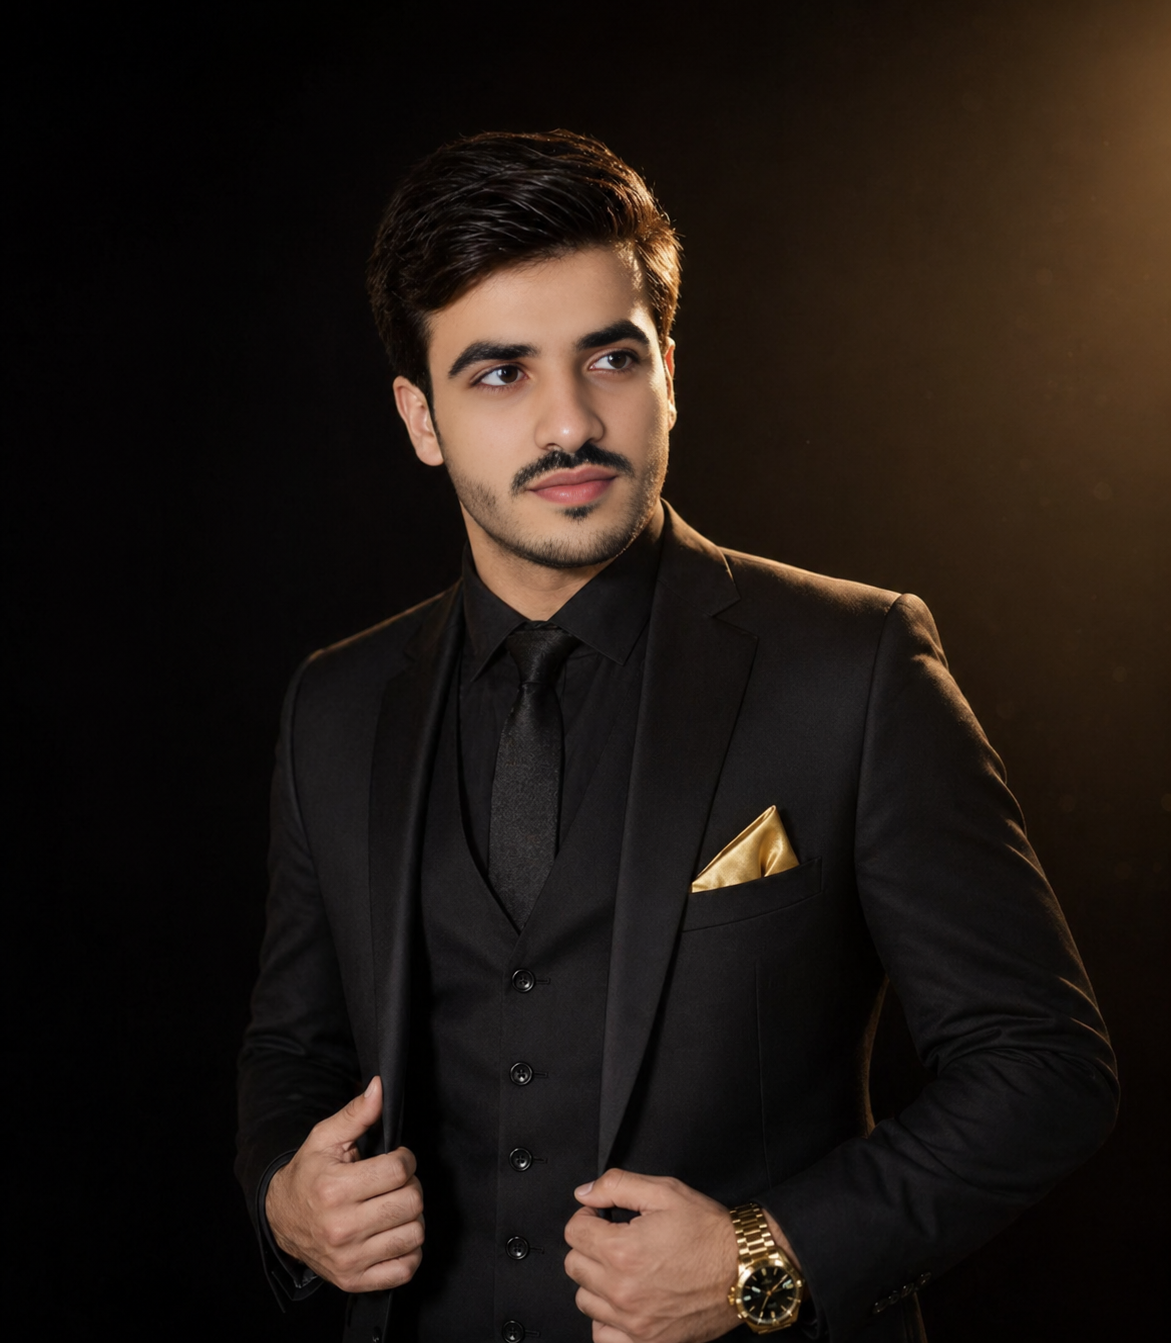
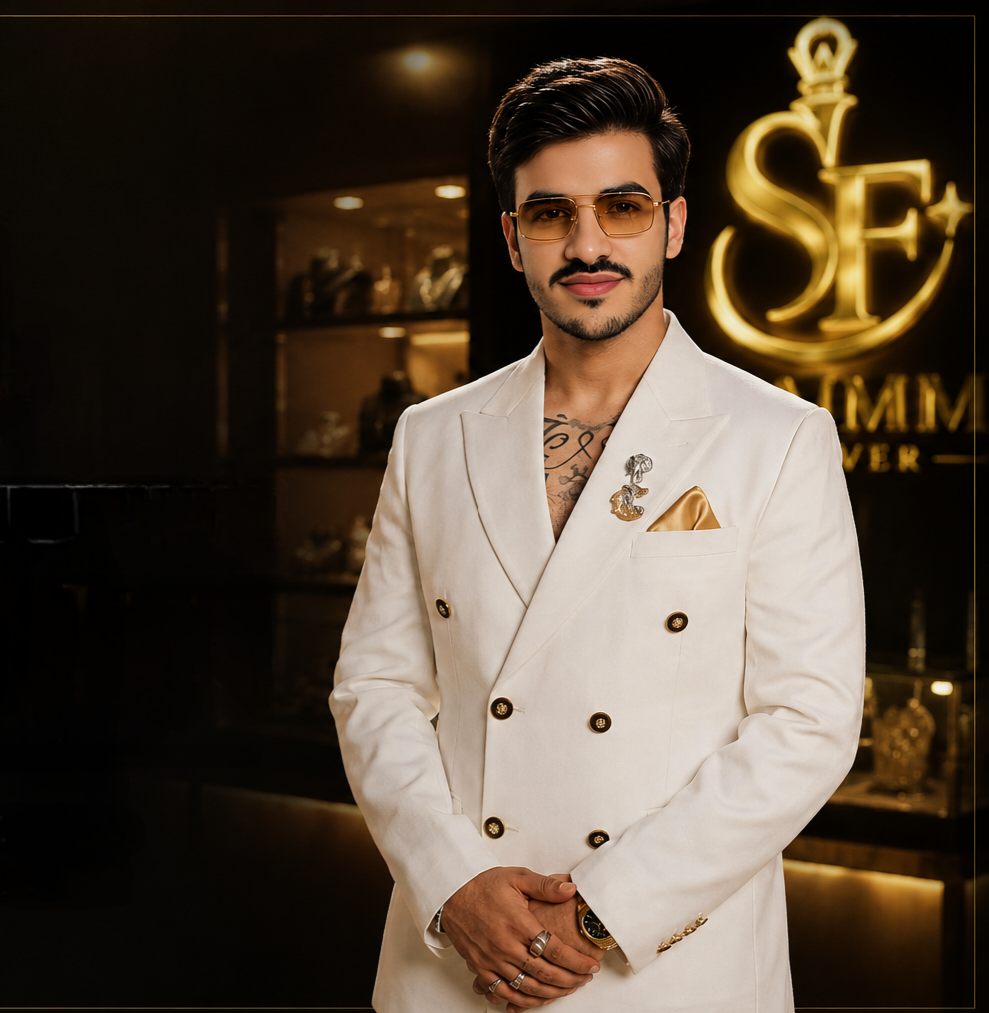
seo: complete SEO overhaul — Organization/Person JSON-LD + meta + sitemap 2026
- Full meta tags: title, description, keywords, author, robots, canonical
- Open Graph: og:type website, og:image, og:description
- Twitter Card: summary_large_image with @faisalorakzaii
- JSON-LD @graph: Organization (Orakzai Bond), WebSite, FinancialProduct (OKBOND), Person (Faisal Orakzai)
- Person schema: Wikidata Q140264666, ORCID 0009-0000-0915-7272, 15 sameAs links
- Founding date fixed to 2026
- Sitemap updated: 10 pages with 2026-06-22 lastmod
- New high-quality founder photo (1.2MB)
- Cache bump to okb-v7

diff --git a/orakzaibond/index.html b/orakzaibond/index.html
@@ -1,125 +1,189 @@
 <!DOCTYPE html>
-<html lang="en">
-  <head>
-    <meta charset="UTF-8" />
-    <meta name="viewport" content="width=device-width, initial-scale=1.0, maximum-scale=1" />
-    <title>Orakzai Bond — OKBOND | Real-Asset Backed Token on Polygon</title>
+  <html lang="en">
+    <head>
+      <meta charset="UTF-8" />
+      <meta name="viewport" content="width=device-width, initial-scale=1.0, maximum-scale=5" />
 
-    <!--
-      CACHE KILL-SWITCH (okb-v6) — runs synchronously before any JS framework.
-      Uses localStorage (NOT Cache Storage / Service Worker) so it works in
-      every browser including Android WebView, Trust Wallet in-app browser,
-      Samsung Internet, and any browser where SW is blocked or stale.
+      <!-- Primary SEO -->
+      <title>Orakzai Bond — OKBOND | World's First Capital-Protected Decentralized Bond</title>
+      <meta name="description" content="Orakzai Bond (OKBOND) — the world's first capital-protected decentralized bond on Polygon. Founded by Faisal Orakzai in 2026. Real-asset backed DeFi token with quantitative fintech infrastructure. Join the sovereign financial revolution." />
+      <meta name="keywords" content="Orakzai Bond, OKBOND, decentralized bond, DeFi Pakistan, blockchain bond, capital protected crypto, Faisal Orakzai, Polygon DeFi, real asset backed token, orakzaibond.com, Pakistani DeFi, OKBOND token, crypto bond Pakistan, quantitative fintech" />
+      <meta name="author" content="Faisal Orakzai" />
+      <meta name="creator" content="Faisal Orakzai" />
+      <meta name="publisher" content="Orakzai Bond" />
+      <meta name="robots" content="index, follow, max-image-preview:large, max-snippet:-1, max-video-preview:-1" />
+      <meta name="googlebot" content="index, follow, max-image-preview:large, max-snippet:-1" />
+      <link rel="canonical" href="https://orakzaibond.com/" />
 
-      On the FIRST load after this deploy the version key won't match:
-        1. Unregister all service workers.
-        2. Delete every Cache Storage entry.
-        3. Hard-reload once (bypasses all browser caches).
-      Second load: key matches → no-op, app starts normally.
+      <!-- Open Graph -->
+      <meta property="og:type" content="website" />
+      <meta property="og:url" content="https://orakzaibond.com/" />
+      <meta property="og:site_name" content="Orakzai Bond" />
+      <meta property="og:title" content="Orakzai Bond — OKBOND | World's First Capital-Protected Decentralized Bond" />
+      <meta property="og:description" content="Orakzai Bond (OKBOND) — real-asset backed DeFi on Polygon. Capital-protected, blockchain-verified, founder-guaranteed. Founded by Faisal Orakzai, 2026." />
+      <meta property="og:image" content="https://orakzaibond.com/opengraph.jpg" />
+      <meta property="og:image:width" content="1200" />
+      <meta property="og:image:height" content="630" />
+      <meta property="og:image:alt" content="Orakzai Bond — OKBOND DeFi Platform" />
+      <meta property="og:locale" content="en_US" />
 
-      To force another full flush in a future deploy, bump 'okb-v6' to 'okb-v7'.
-    -->
-    <script>
-      (function () {
-        var V = "okb-v6";
-        try {
-          if (localStorage.getItem("_okbuild") !== V) {
-            localStorage.setItem("_okbuild", V);
-            var pending = 0, done = false;
-            function go() { if (done) return; done = true; location.reload(true); }
-            if ("serviceWorker" in navigator) {
-              pending++;
-              navigator.serviceWorker.getRegistrations()
-                .then(function (r) { r.forEach(function (s) { try { s.unregister(); } catch (e) {} }); if (--pending === 0) go(); })
-                .catch(function () { if (--pending === 0) go(); });
+      <!-- Twitter Card -->
+      <meta name="twitter:card" content="summary_large_image" />
+      <meta name="twitter:site" content="@faisalorakzaii" />
+      <meta name="twitter:creator" content="@faisalorakzaii" />
+      <meta name="twitter:title" content="Orakzai Bond — OKBOND | Capital-Protected DeFi" />
+      <meta name="twitter:description" content="World's first capital-protected decentralized bond on Polygon. Real-asset backed. Founded by Faisal Orakzai, 2026." />
+      <meta name="twitter:image" content="https://orakzaibond.com/opengraph.jpg" />
+
+      <!-- Additional Meta -->
+      <meta name="theme-color" content="#BF953F" />
+      <meta name="msapplication-TileColor" content="#05060A" />
+
+      <!-- JSON-LD Structured Data -->
+      <script type="application/ld+json">
+      {
+        "@context": "https://schema.org",
+        "@graph": [
+          {
+            "@type": "Organization",
+            "@id": "https://orakzaibond.com/#organization",
+            "name": "Orakzai Bond",
+            "alternateName": ["OKBOND", "Orakzai Bond DeFi"],
+            "description": "The world's first capital-protected decentralized bond on Polygon blockchain. Real-asset backed DeFi token with quantitative fintech infrastructure.",
+            "url": "https://orakzaibond.com",
+            "logo": {
+              "@type": "ImageObject",
+              "url": "https://orakzaibond.com/okbond-logo.png",
+              "caption": "Orakzai Bond — OKBOND"
+            },
+            "image": "https://orakzaibond.com/faisal-orakzai.jpg",
+            "foundingDate": "2026",
+            "founder": {
+              "@type": "Person",
+              "@id": "https://www.shamimforever.com/faisal-orakzai#person",
+              "name": "Faisal Orakzai",
+              "url": "https://www.shamimforever.com/faisal-orakzai",
+              "image": "https://orakzaibond.com/faisal-orakzai.jpg",
+              "jobTitle": "Founder & CEO",
+              "sameAs": [
+                "https://www.wikidata.org/wiki/Q140264666",
+                "https://orcid.org/0009-0000-0915-7272",
+                "https://www.linkedin.com/in/faisalorakzaii",
+                "https://x.com/faisalorakzaii"
+              ]
+            },
+            "sameAs": [
+              "https://orakzaibond.com",
+              "http://orakzaibond.com"
+            ],
+            "knowsAbout": [
+              "Decentralized Finance", "Blockchain Bonds", "Asset Tokenization",
+              "Quantitative Fintech", "Capital Protection", "Polygon Network",
+              "DeFi Protocol", "Real Asset Backed Tokens"
+            ],
+            "areaServed": { "@type": "Place", "name": "Worldwide" },
+            "contactPoint": {
+              "@type": "ContactPoint",
+              "contactType": "customer service",
+              "availableLanguage": ["English", "Urdu"],
+              "url": "https://orakzaibond.com"
             }
-            if ("caches" in window) {
-              pending++;
-              caches.keys()
-                .then(function (k) { return Promise.all(k.map(function (c) { return caches.delete(c); })); })
-                .then(function () { if (--pending === 0) go(); })
-                .catch(function () { if (--pending === 0) go(); });
-            }
-            if (pending === 0) go();
+          },
+          {
+            "@type": "WebSite",
+            "@id": "https://orakzaibond.com/#website",
+            "url": "https://orakzaibond.com",
+            "name": "Orakzai Bond",
+            "description": "World's first capital-protected decentralized bond on Polygon. Real-asset backed DeFi.",
+            "publisher": { "@id": "https://orakzaibond.com/#organization" },
+            "inLanguage": "en"
+          },
+          {
+            "@type": "FinancialProduct",
+            "@id": "https://orakzaibond.com/#okbond",
+            "name": "OKBOND Token",
+            "description": "Capital-protected decentralized bond token on Polygon blockchain. Real-asset backed with quantitative fintech infrastructure.",
+            "url": "https://orakzaibond.com",
+            "provider": { "@id": "https://orakzaibond.com/#organization" },
+            "feesAndCommissionsSpecification": "Capital-protected — principal guaranteed",
+            "category": "Decentralized Finance"
+          },
+          {
+            "@type": "Person",
+            "@id": "https://www.shamimforever.com/faisal-orakzai#person",
+            "name": "Faisal Orakzai",
+            "givenName": "Faisal",
+            "familyName": "Orakzai",
+            "alternateName": ["Chairman Faisal Orakzai", "Malak Faisal Orakzai", "faisalorakzaii"],
+            "description": "Founder & CEO of Orakzai Bond. Pakistani entrepreneur specializing in blockchain architecture and decentralized finance. Also founder of Shamim Forever and Orakzai Group.",
+            "url": "https://www.shamimforever.com/faisal-orakzai",
+            "image": "https://orakzaibond.com/faisal-orakzai.jpg",
+            "birthDate": "2006-04-30",
+            "birthPlace": { "@type": "Place", "name": "Pakistan", "addressCountry": "PK" },
+            "nationality": { "@type": "Country", "name": "Pakistan" },
+            "jobTitle": ["Founder & CEO", "Chairman", "Blockchain Architect"],
+            "worksFor": { "@id": "https://orakzaibond.com/#organization" },
+            "identifier": [
+              { "@type": "PropertyValue", "propertyID": "ORCID", "value": "0009-0000-0915-7272", "url": "https://orcid.org/0009-0000-0915-7272" },
+              { "@type": "PropertyValue", "propertyID": "Wikidata", "value": "Q140264666", "url": "https://www.wikidata.org/wiki/Q140264666" }
+            ],
+            "sameAs": [
+              "https://www.wikidata.org/wiki/Q140264666",
+              "https://orcid.org/0009-0000-0915-7272",
+              "https://www.crunchbase.com/person/faisal-orakzai",
+              "https://www.linkedin.com/in/faisalorakzaii",
+              "https://x.com/faisalorakzaii",
+              "https://www.instagram.com/faisalorakzaii",
+              "https://web.facebook.com/faisalorakzaii",
+              "https://tiktok.com/@chairmanorakzai",
+              "https://github.com/faisalorakzai-lab",
+              "https://linktr.ee/faisalorakzaiofficial",
+              "https://peerlist.io/faisalorakzai",
+              "https://hackernoon.com/u/faisalorakzai",
+              "https://www.f6s.com/faisalorakzai",
+              "https://www.shamimforever.com/faisal-orakzai",
+              "https://www.shamimforever.com/founder"
+            ]
           }
-        } catch (e) { /* localStorage blocked in private mode — carry on */ }
-      })();
-    </script>
-
-    <!-- PWA -->
-    <meta name="theme-color" content="#EAB308" />
-    <meta name="mobile-web-app-capable" content="yes" />
-    <meta name="apple-mobile-web-app-capable" content="yes" />
-    <meta name="apple-mobile-web-app-status-bar-style" content="black-translucent" />
-    <meta name="apple-mobile-web-app-title" content="OKBOND" />
-    <link rel="manifest" href="/manifest.webmanifest" />
-    <link rel="apple-touch-icon" href="/okbond-logo.png" />
-
-    <!-- SEO -->
-    <meta name="description" content="Orakzai Bond (OKBOND) — Real-asset backed digital token on Polygon PoS. Liquidity-Backed Capital Retention Model backed by real estate, on-chain reserves, liquidity pools and treasury." />
-    <meta name="keywords" content="OKBOND, Orakzai Bond, Polygon, DeFi, lottery, ICO, staking, capital retention, real estate backed token, Faisal Orakzai, blockchain bond" />
-    <meta name="author" content="Orakzai Group" />
-    <link rel="canonical" href="https://orakzaibond.com/" />
-
-    <!-- Open Graph -->
-    <meta property="og:title" content="Orakzai Bond — OKBOND | Real-Asset Backed Token on Polygon" />
-    <meta property="og:description" content="Beyond Borders. Beyond Limits. Liquidity-Backed Capital Retention Model on Polygon PoS. Backed by real-world assets." />
-    <meta property="og:image" content="/opengraph.jpg" />
-    <meta property="og:url" content="https://orakzaibond.com" />
-    <meta property="og:site_name" content="Orakzai Bond" />
-    <meta property="og:type" content="website" />
-
-    <!-- Twitter Card -->
-    <meta name="twitter:card" content="summary_large_image" />
-    <meta name="twitter:title" content="Orakzai Bond — OKBOND" />
-    <meta name="twitter:description" content="Beyond Borders. Beyond Limits. Real-asset backed token on Polygon with capital retention and on-chain lottery." />
-    <meta name="twitter:image" content="/opengraph.jpg" />
-    <meta name="twitter:site" content="@orakzaibond1" />
-
-    <!-- JSON-LD structured data -->
-    <script type="application/ld+json">
-      {
-        "@context": "https://schema.org",
-        "@type": "Organization",
-        "name": "Orakzai Bond",
-        "alternateName": ["OKBOND", "Orakzai Group"],
-        "url": "https://orakzaibond.com",
-        "logo": "https://orakzaibond.com/okbond-logo.png",
-        "description": "Real-asset backed digital token of the Orakzai Group — Liquidity-Backed Capital Retention Model on Polygon PoS.",
-        "sameAs": [
-          "https://x.com/orakzaibond1",
-          "https://t.me/orakzaibond"
-        ],
-        "founder": {
-          "@type": "Person",
-          "name": "Faisal Orakzai"
-        }
+        ]
       }
-    </script>
-    <script type="application/ld+json">
-      {
-        "@context": "https://schema.org",
-        "@type": "WebSite",
-        "name": "Orakzai Bond — OKBOND",
-        "url": "https://orakzaibond.com",
-        "potentialAction": {
-          "@type": "SearchAction",
-          "target": "https://orakzaibond.com/?q={search_term_string}",
-          "query-input": "required name=search_term_string"
-        }
-      }
-    </script>
+      </script>
 
-    <!-- Favicon & Fonts -->
-    <link rel="icon" type="image/png" href="/okbond-logo.png" />
-    <link rel="preconnect" href="https://fonts.googleapis.com">
-    <link rel="preconnect" href="https://fonts.gstatic.com" crossorigin>
-    <link rel="dns-prefetch" href="https://generativelanguage.googleapis.com">
-    <link href="https://fonts.googleapis.com/css2?family=Inter:wght@300;400;500;600;700&family=Sora:wght@400;600;700;800&family=Playfair+Display:ital,wght@0,400;0,600;0,700;0,900;1,400&display=swap" rel="stylesheet">
-    <link href="https://fonts.googleapis.com/css2?family=JetBrains+Mono:wght@400;500;600;700&display=swap" rel="stylesheet">
-  </head>
-  <body>
-    <div id="root"></div>
-    <script type="module" src="/src/main.tsx"></script>
-  </body>
-</html>
+      <!-- Favicons -->
+      <link rel="icon" type="image/svg+xml" href="/favicon.svg" />
+      <link rel="manifest" href="/manifest.webmanifest" />
+
+      <!-- Cache strategy (keep existing) -->
+      <script>
+        (function () {
+          var V = "okb-v7";
+          try {
+            if (localStorage.getItem("_okbuild") !== V) {
+              localStorage.setItem("_okbuild", V);
+              var pending = 0, done = false;
+              function go() { if (done) return; done = true; location.reload(true); }
+              if ("serviceWorker" in navigator) {
+                pending++;
+                navigator.serviceWorker.getRegistrations()
+                  .then(function (r) { r.forEach(function (s) { try { s.unregister(); } catch (e) {} }); if (--pending === 0) go(); })
+                  .catch(function () { if (--pending === 0) go(); });
+              }
+              if ("caches" in window) {
+                pending++;
+                caches.keys()
+                  .then(function (k) { return Promise.all(k.map(function (c) { return caches.delete(c); })); })
+                  .then(function () { if (--pending === 0) go(); })
+                  .catch(function () { if (--pending === 0) go(); });
+              }
+              if (pending === 0) go();
+            }
+          } catch (e) {}
+        })();
+      </script>
+    </head>
+    <body>
+      <div id="root"></div>
+      <script type="module" src="/src/main.tsx"></script>
+    </body>
+  </html>
+  
